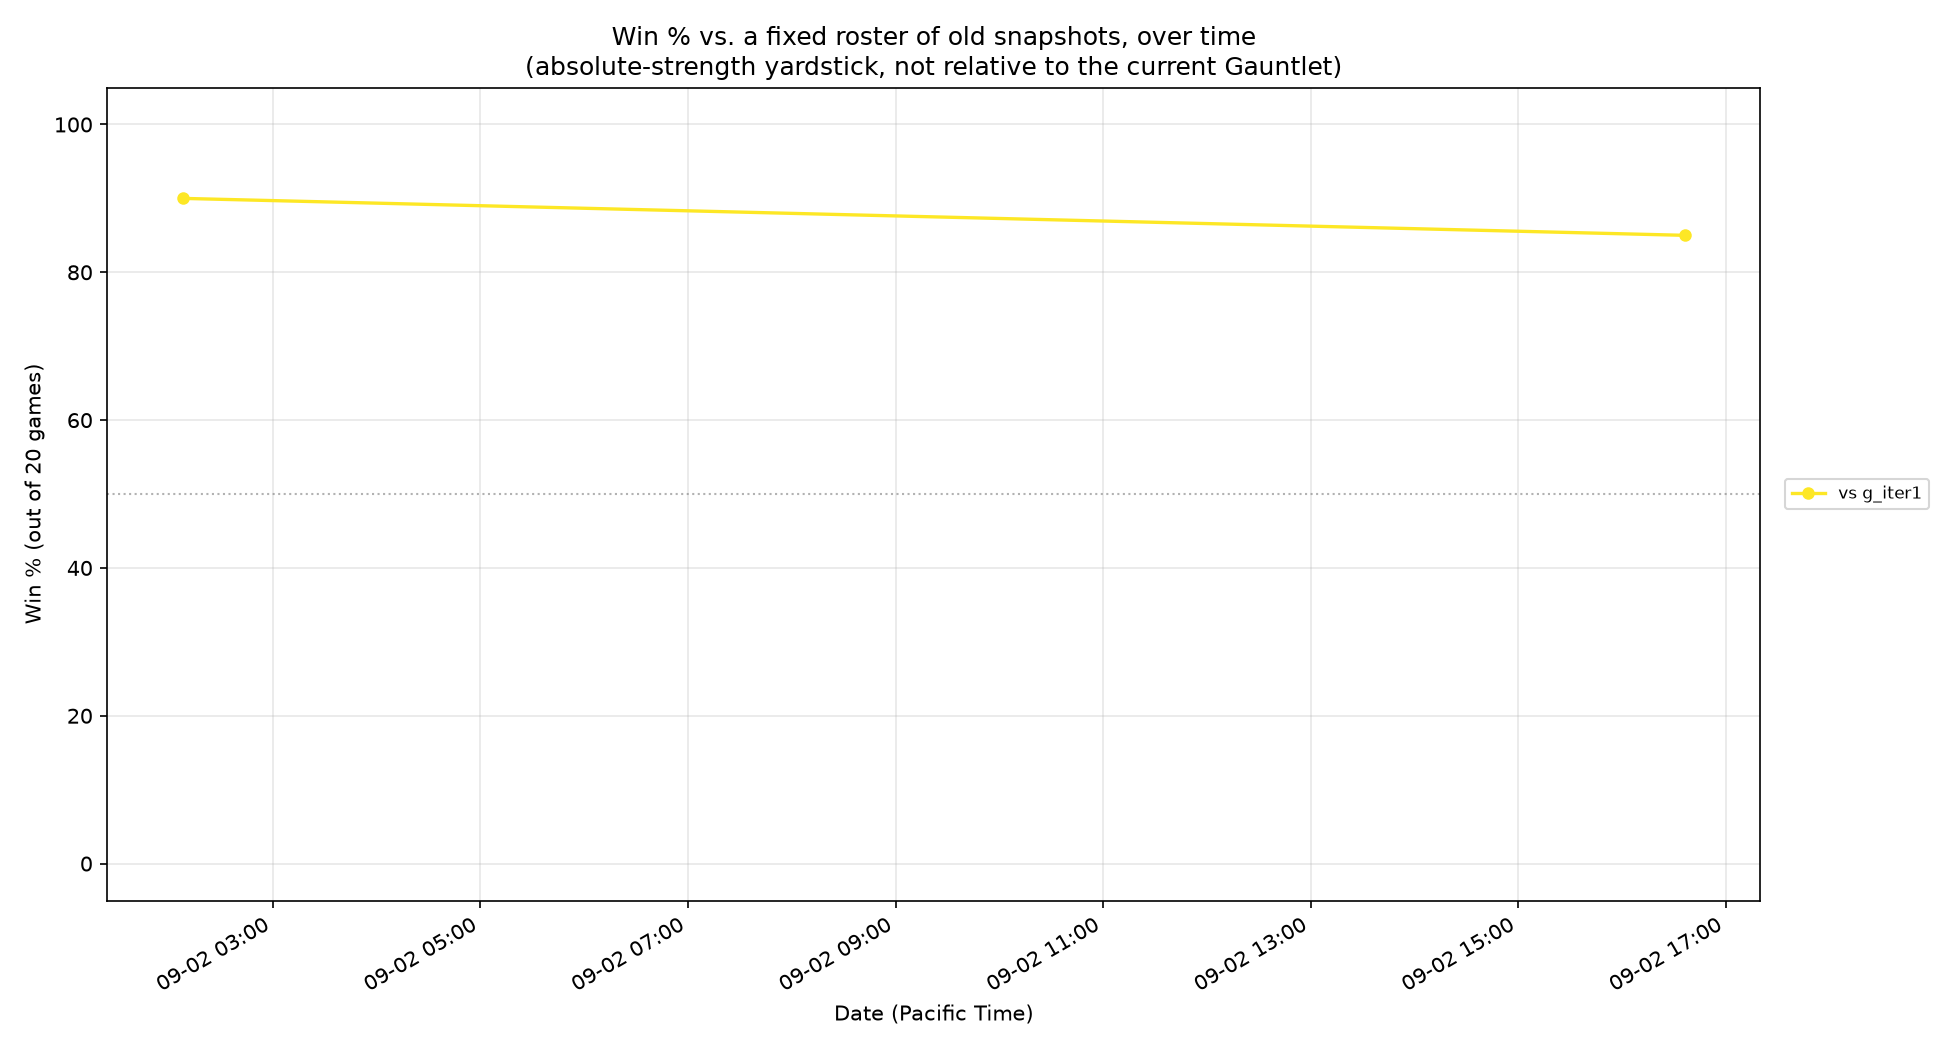
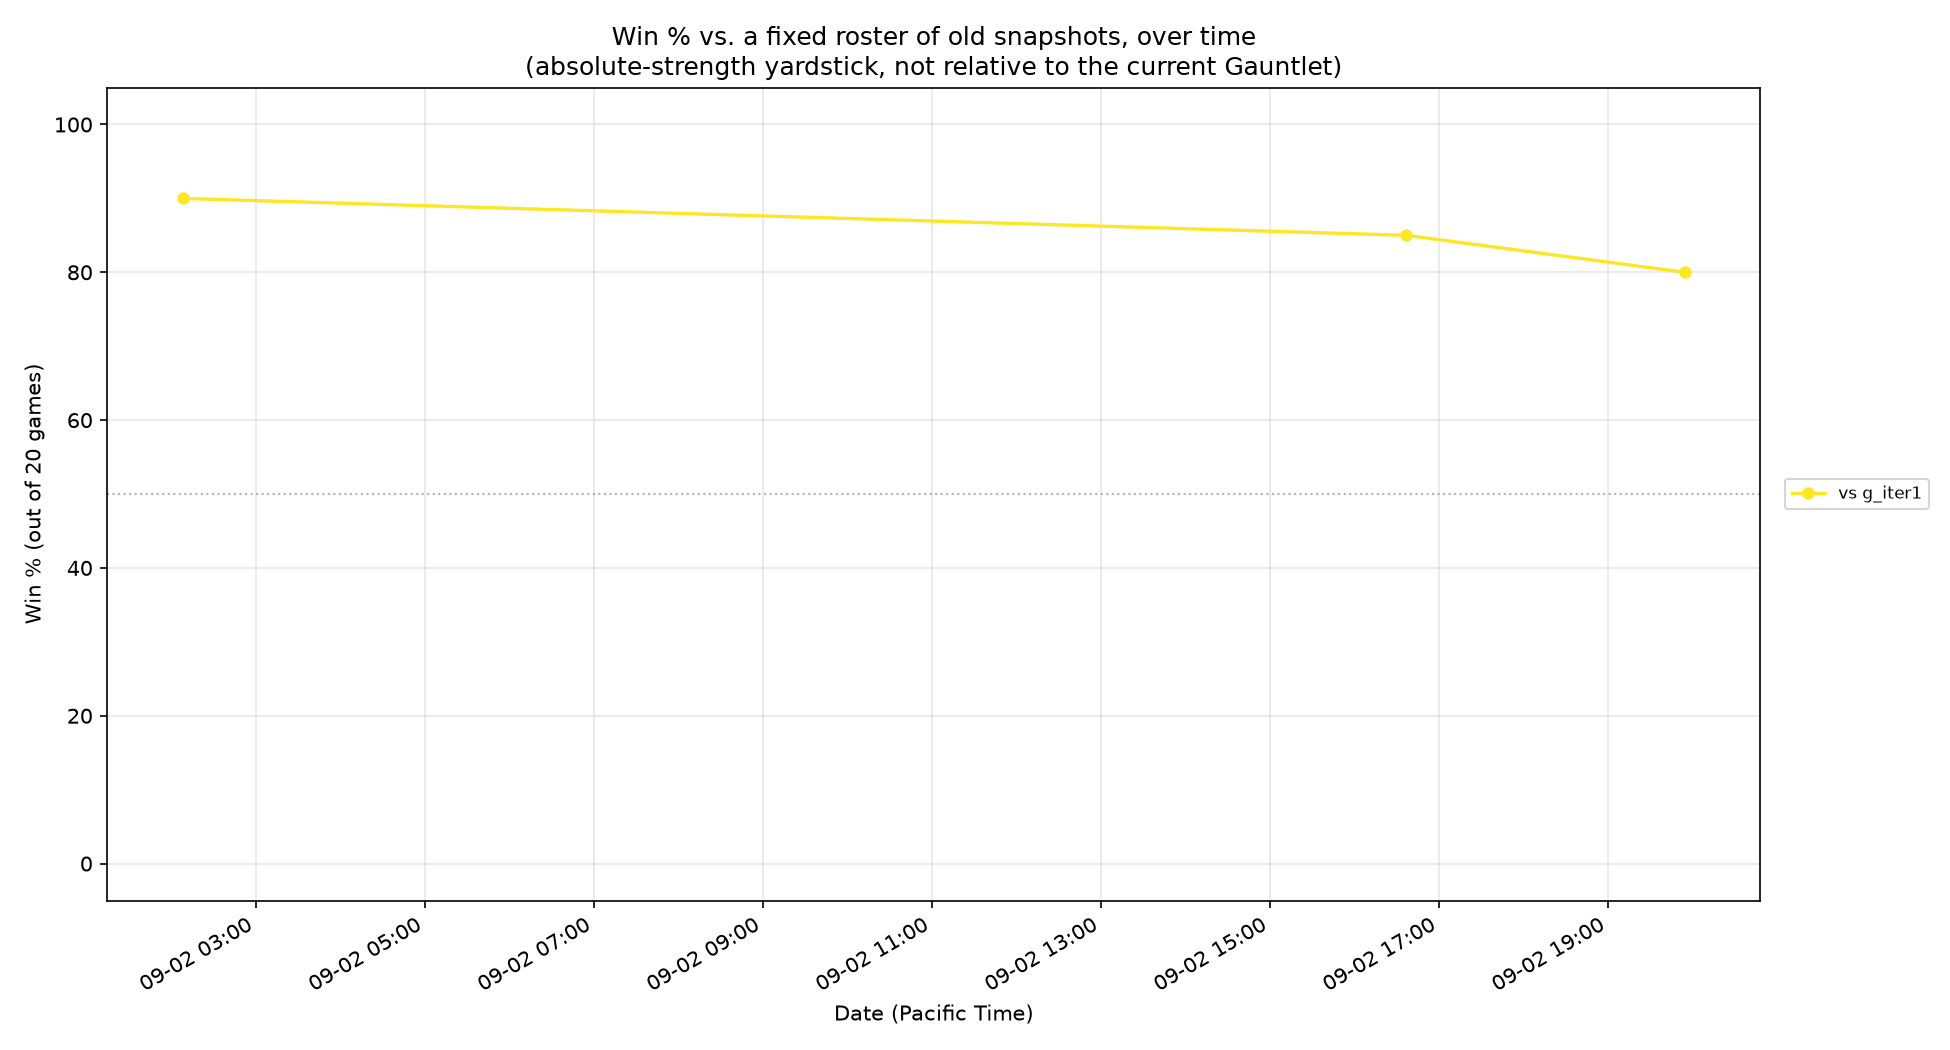
Track vs-old-bots after every accept (new standing habit) + backfill g_iter11
User asked to run the vs-old-bots comparison after every accepted
iteration going forward, not periodically. Backfilled g_iter11 vs
g_iter1: 16/20 (80.0%), continuing a gradual decline from g_iter7's
90.0% -- noted as worth watching but not alarming given noisy 20-game
samples and the primary peer-roster signal climbing over the same span.

Claude-Session: https://claude.ai/code/session_01Sgao6EtbbgQ6mM5ZhH5FGP

diff --git a/TRAINING_LOG.md b/TRAINING_LOG.md
@@ -2138,3 +2138,17 @@ danger-conditional retreat trigger for exploration safety generally
 Iterations 25/26's rejected distance-cap attempts), a full King
 spending-model redesign (Iterations 28-31), and `catDamage`-vs-
 `pure_cooperator` is closed out as accepted map-luck noise.
+
+**Standing habit change (user request):** run the vs-old-bots comparison
+(`OPPONENTS="g_iter1" tools/gauntlet.sh` + `track_vs_old_bots.py` +
+`plot_vs_old_bots.py`) after *every* accepted iteration from now on,
+not periodically -- added to memory as
+`update-vs-old-bots-every-accept`. Backfilled for this iteration:
+`g_iter11` vs. `g_iter1`, `gauntlet/20260902-195419/` -- **16/20
+(80.0%)**, continuing a gradual decline from `g_iter7`'s 90.0% and
+`g_iter10`'s 85.0%. Losses: both sides of `tiny` (consistent with this
+iteration's own new `tiny` weakness, see above) and both sides of
+`whereisthecheese`. Not alarming on its own -- 20-game samples against
+a single frozen old snapshot are noisy, and the primary peer-roster
+signal has been climbing over the same span (67.5%->70.0%->75.0%) -- but
+worth watching if the trend continues over the next couple of accepts.
